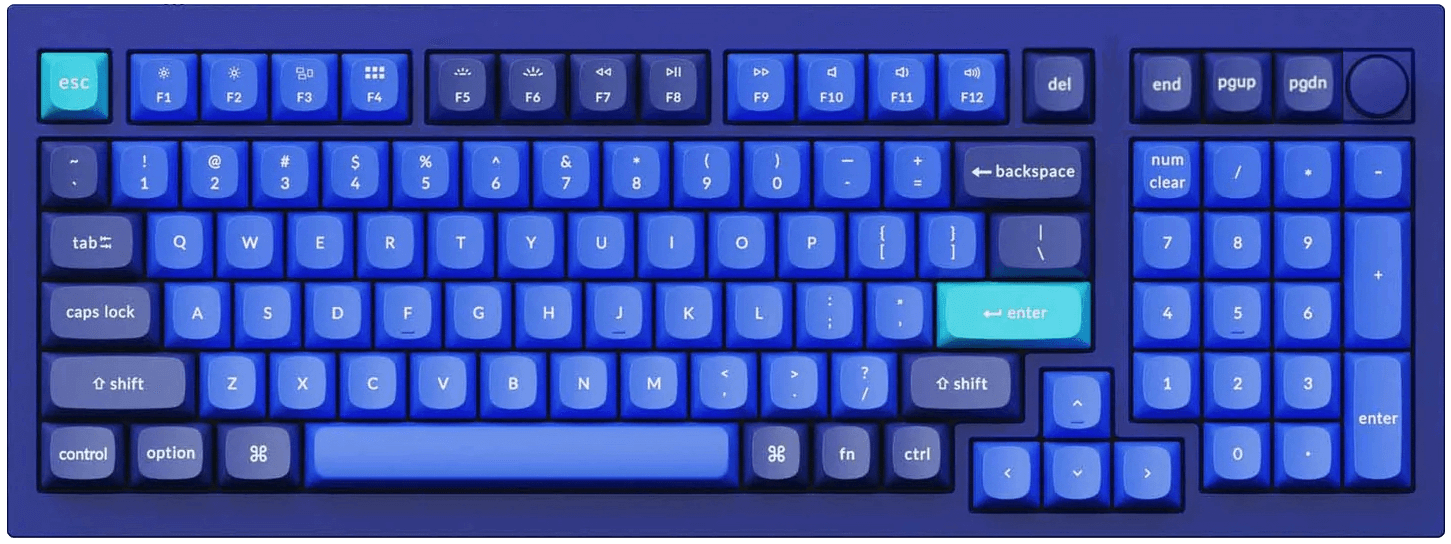
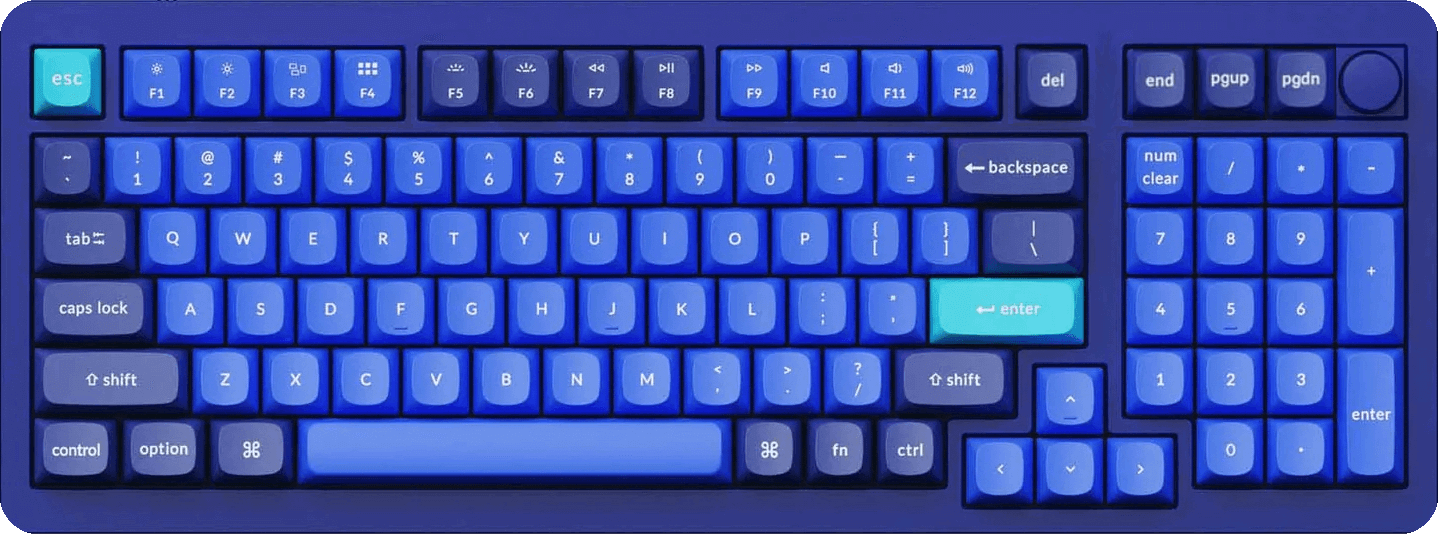
update to docs, images

diff --git a/README.md b/README.md
@@ -1,13 +1,26 @@
 # VR99-Keyboard-PCB
 
-> &#128679; Placeholder for future project &#128679;
+> &#128679; Product under development &#128679;
 
-![](docs/vr99-layout.png)
-![](docs/vr99-render.png)
+> &#9888;&#9888;&#9888;&#9888;&#9888;&#9888;&#9888;&#9888;&#9888;&#9888; <br>
+> &#9888; ***DO NOT BUILD*** &#9888; <br>
+> &#9888;&#9888;&#9888;&#9888;&#9888;&#9888;&#9888;&#9888;&#9888;&#9888;
 
 ## Intent
 
 A 980-layout (99-key) compact near-full size keyboard for QMK feat. per-Key RGB and a top-right corner rotary encoder
+
+### Pre-beta PCB renders
+
+![](docs/vr99-pcb-top.png)
+![](docs/vr99-pcb-btm.png)
+
+### Layout ideation renders
+
+![](docs/vr99-render.png)
+![](docs/vr99-layout.png)
+![](docs/vr99-matrix.png)
+
 
 ## Planned Features
 
